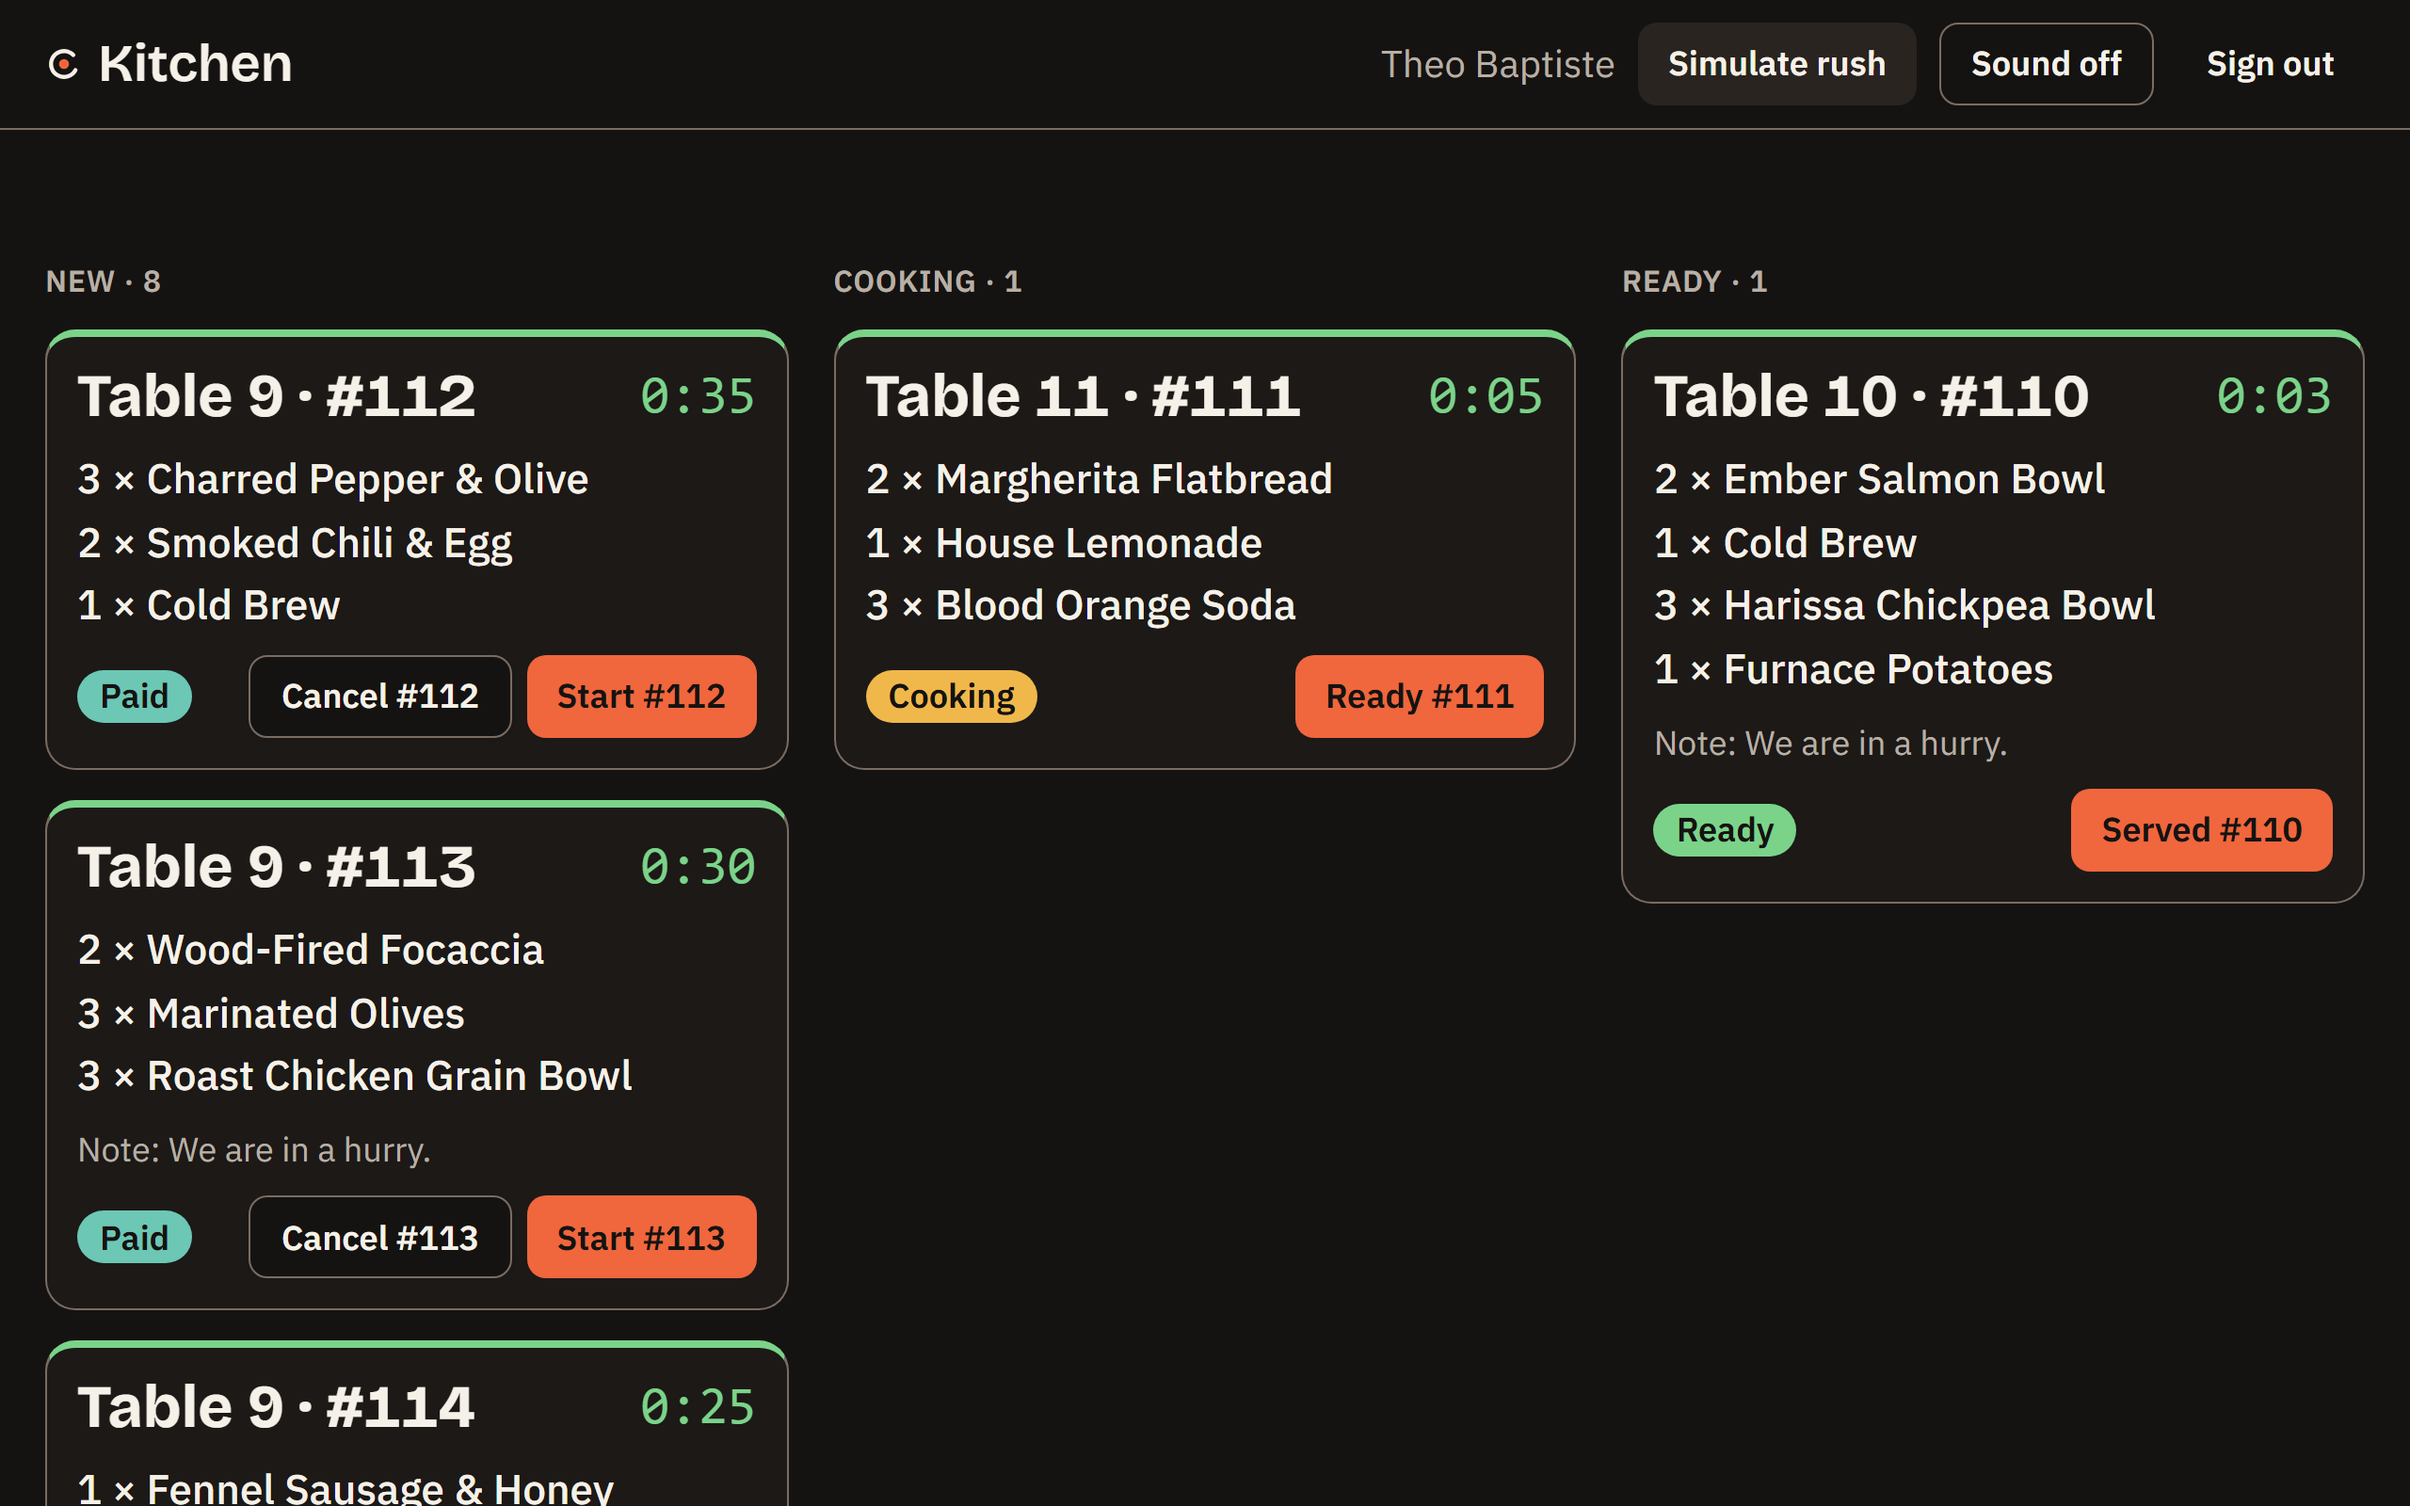
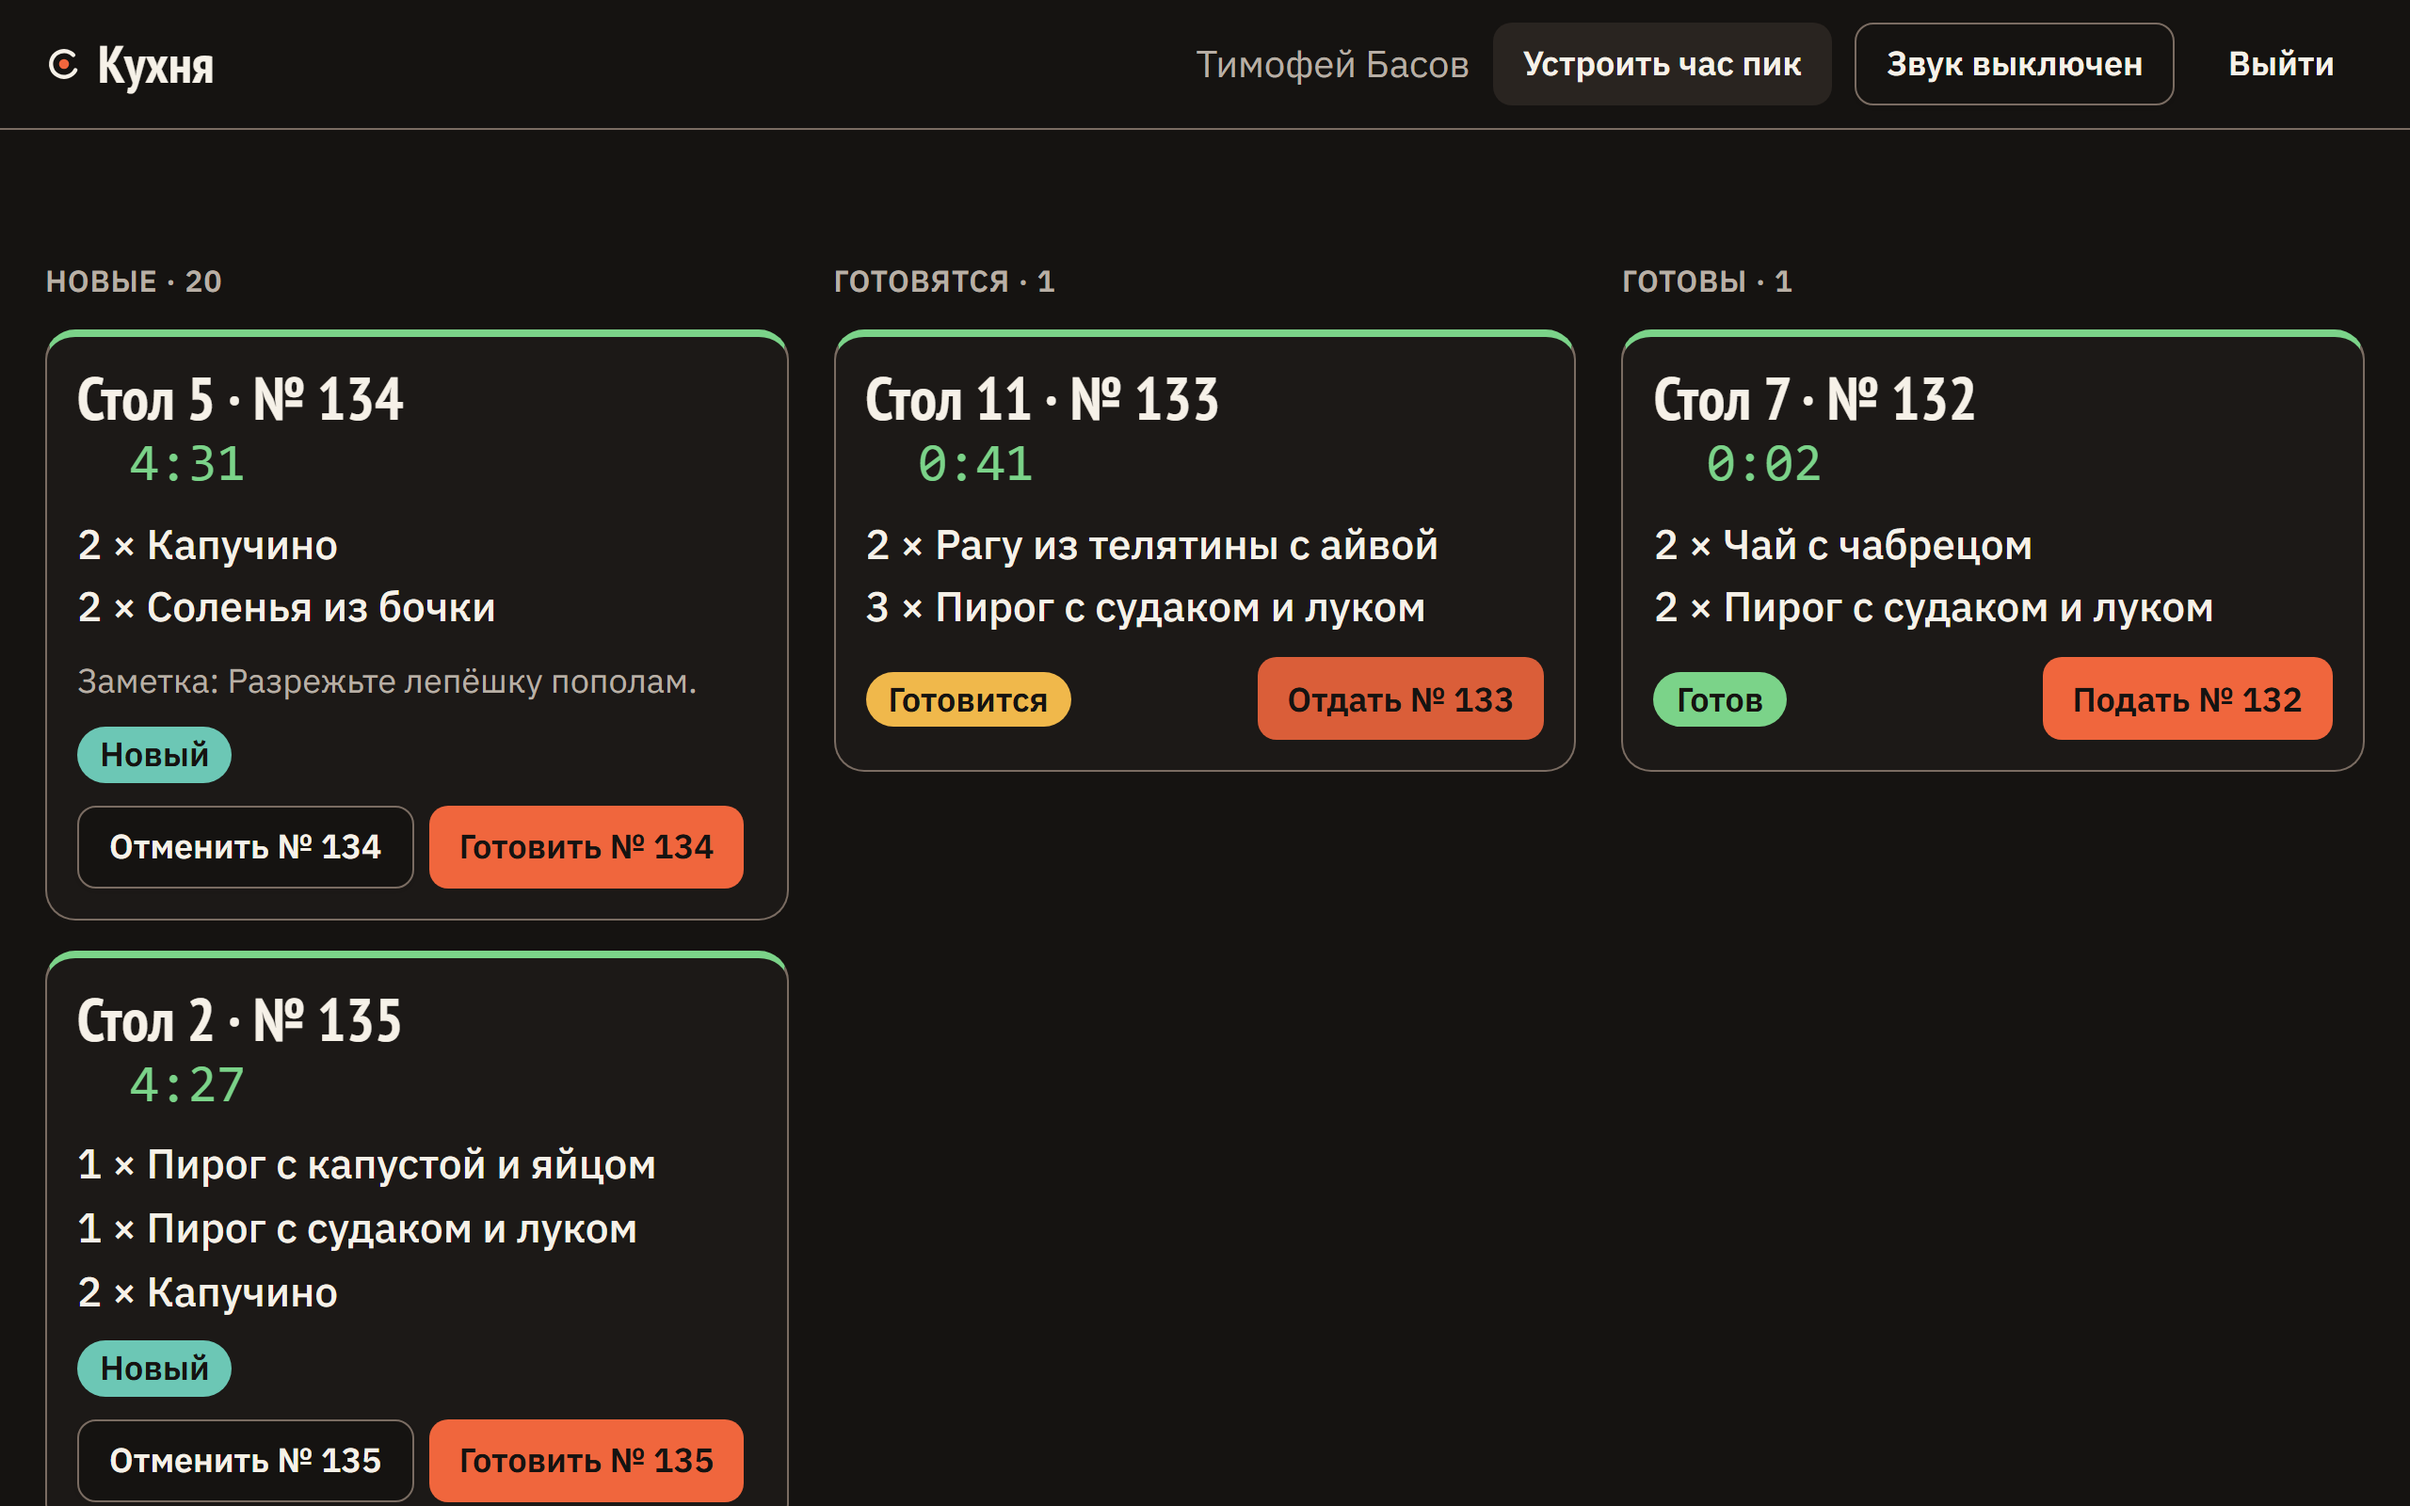
docs: retake the screenshots from the live Russian site
All four were captured from the English build and the README's alt text
described a page that no longer exists - three role cards on a landing
that has none, and $627.00 on a dashboard that counts roubles. The alt
text is the part that mattered: it is what a reader using a screen
reader gets instead of the image, so a stale one is not merely untidy.

Captured at 1280x800 with deviceScaleFactor 2, matching the originals
at 2560x1600. The kitchen board was filled with the demo's own rush
control and two tickets moved on, so all three columns carry something
- a board at rest says nothing about what the screen is for. Sign-in
went through /login?demo=<role>, which exists so a browser pass never
needs anyone to type a password.

02b-copy-ru.md gains the sign-in section the owner approved today. It
was in neither the brief nor this document because the surface had
never been localised in either language, and its refusals lived in a
status-keyed table rendered through a variable - the shape a source
scan cannot see. The entry records why the wrong-credentials sentence
does not say which half is wrong.

diff --git a/README.md b/README.md
@@ -4,11 +4,11 @@ A guest scans the code on the table, orders from their phone, pays, and the tick
 
 **Live demo: <https://tabletap-web.vercel.app>** — the whole product, on three free tiers. On the free tier the API sleeps when nobody is here, so the first page after a quiet spell can take about a minute; measured on 2026-09-06 at 34 s cold against 0.6 s warm. Nothing takes a card: payments run in demo mode.
 
-| The demo landing                                                                                                                                       | The guest menu                                                                                                                                             |
-| ------------------------------------------------------------------------------------------------------------------------------------------------------ | ---------------------------------------------------------------------------------------------------------------------------------------------------------- |
-| ![The TableTap landing page: Guest, Kitchen and Admin cards, a QR code for table 7, and the demo notices](docs/screenshots/landing.png)                | ![The Little Furnace menu at table 7: four categories, and flatbreads with their drawn plates, prices and Add buttons](docs/screenshots/menu.png)          |
-| **The kitchen board**                                                                                                                                  | **The admin dashboard**                                                                                                                                    |
-| ![The kitchen board mid-service: eight tickets in New, one Cooking, one Ready, each with its timer and one bump control](docs/screenshots/kitchen.png) | ![The admin dashboard: 12 orders, $627.00, 42 s average time to ready, 11 open tickets, and seven days of paid orders as bars](docs/screenshots/admin.png) |
+| The demo landing                                                                                                                                                                                                                    | The guest menu                                                                                                                                                      |
+| ----------------------------------------------------------------------------------------------------------------------------------------------------------------------------------------------------------------------------------- | ------------------------------------------------------------------------------------------------------------------------------------------------------------------- |
+| ![The Little Furnace landing page: «Заказ со стола. Через секунду он на кухне.», one button onto table 7's menu, the four steps of how it works, opening hours, and the staff entrance in the header](docs/screenshots/landing.png) | ![The Little Furnace menu at table 7: four category chips, and the oven dishes with their drawn plates, allergens and prices in roubles](docs/screenshots/menu.png) |
+| **The kitchen board**                                                                                                                                                                                                               | **The admin dashboard**                                                                                                                                             |
+| ![The kitchen board mid-service: twenty tickets in Новые, one in Готовятся and one in Готовы, each with its timer, its status and the one control that moves it on](docs/screenshots/kitchen.png)                                   | ![The admin dashboard: 14 orders, 36 040 ₽, 1 min 42 s average time to ready, 13 open tickets, and seven days of paid orders as bars](docs/screenshots/admin.png)   |
 
 **[Read the case study](docs/case-study.md)** — four problems where the obvious answer was wrong, what each one cost, and how the mistakes were found.
 

diff --git a/docs/design/02b-copy-ru.md b/docs/design/02b-copy-ru.md
@@ -165,6 +165,35 @@ They are replaced by explanations at the moment they apply, which is the honest 
 - **The cold start.** No warning. A loading state that reserves its space and does not pretend to be
   instant. No promise the product does not keep.
 
+## The staff sign-in, approved 2026-09-17
+
+This surface was in neither the brief nor this document, because it had never been localised at
+all — every word of it was English, including a table of refusals keyed by HTTP status and rendered
+through a variable, which is the shape a source scan cannot see. The strings below were derived
+from the editorial rules above and approved by the owner.
+
+| Where it shows           | String                                                                      |
+| ------------------------ | --------------------------------------------------------------------------- |
+| Heading                  | Вход для сотрудников                                                        |
+| Under it                 | Введите рабочую почту и пароль.                                             |
+| Fields                   | Почта · Пароль                                                              |
+| Button                   | Войти                                                                       |
+| Button, while signing in | Входим…                                                                     |
+| Status, while signing in | Входим как {name}…                                                          |
+| Status, after            | Вы вошли как {name}. Открываем служебную зону…                              |
+| Wrong credentials        | Почта и пароль не подходят. Проверьте их и попробуйте ещё раз.              |
+| Too many attempts        | Слишком много попыток входа. Подождите минуту и попробуйте ещё раз.         |
+| Server unreachable       | Не удаётся связаться с сервером. Проверьте соединение и попробуйте ещё раз. |
+
+Two of these are deliberately byte-identical to strings that already existed, so that one event is
+not described in two ways: the heading matches the landing's staff entrance, and the unreachable
+refusal matches the guest surface's.
+
+**«Почта и пароль не подходят» does not say which half is wrong, and that is not vagueness.** A refusal
+that distinguishes an unknown address from a wrong password turns the sign-in screen into a way to
+enumerate which accounts exist. The form reads only the HTTP status and writes the sentence itself,
+so better-auth's own English never reaches the screen either.
+
 ## What is not settled here
 
 The four surfaces' own strings — menu, basket, checkout, receipt, board, admin — are extracted after
